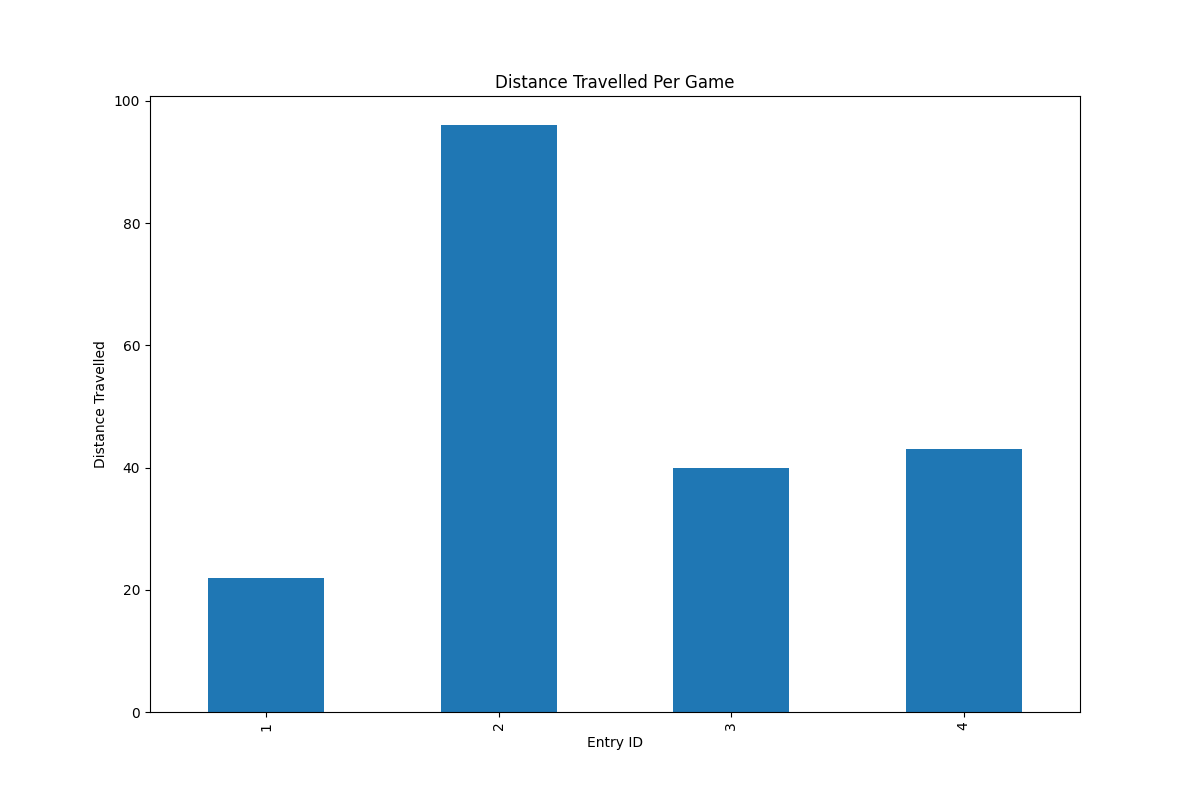
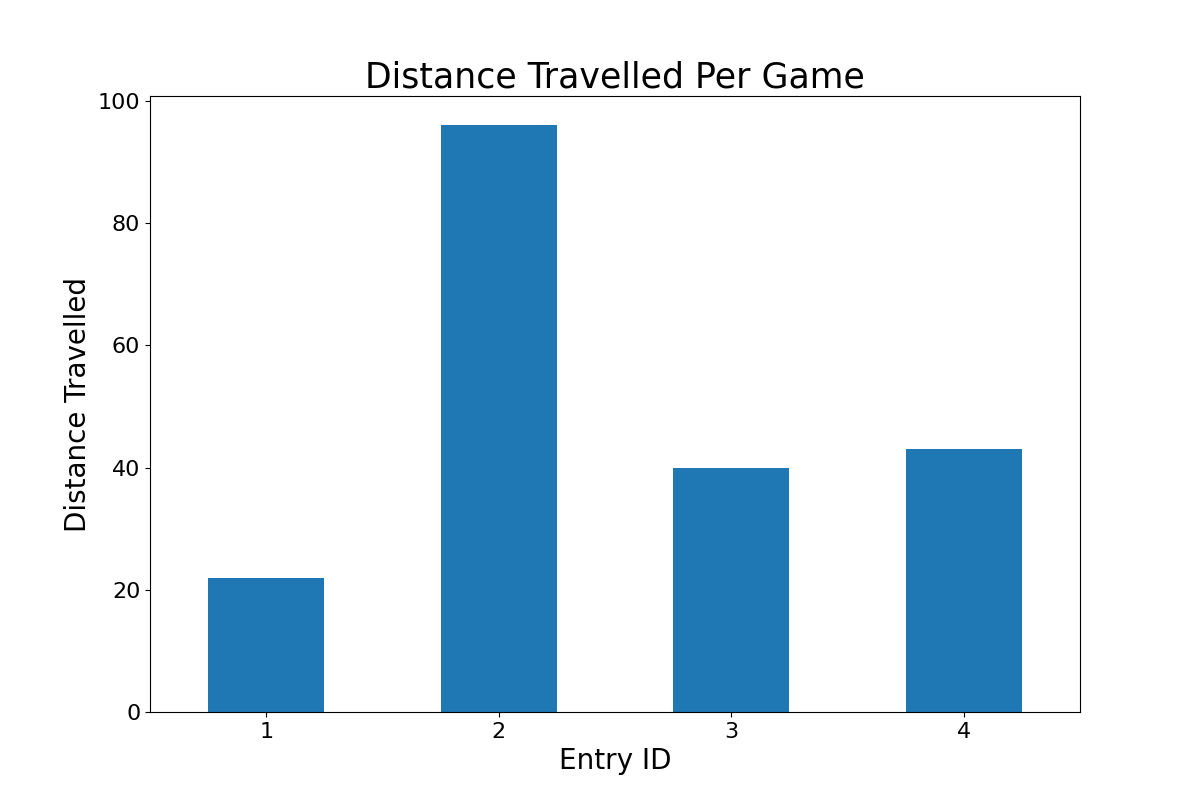
Completed Dashboard

diff --git a/CoolMotor.py b/CoolMotor.py
@@ -80,20 +80,22 @@ def dashboard():
     
     fig1 = plt.figure(figsize=(12, 8))
     ax = freq_series.plot(kind="bar")
-    ax.set_title("Distance Travelled Per Game")
-    ax.set_xlabel("Entry ID")
-    ax.set_ylabel("Distance Travelled")
+    ax.set_title("Distance Travelled Per Game", fontsize=25)
+    ax.set_xlabel("Entry ID", fontsize=20)
+    ax.set_ylabel("Distance Travelled", fontsize=20, rotation=90)
     ax.set_xticklabels(x1Array)
-    plt.xticks(rotation=90)
+    plt.xticks(fontsize=16, rotation=0)
+    plt.yticks(fontsize=16, rotation=0)
     fig1.savefig('static/img/chart1.png')
     
     fig2 = plt.figure(figsize=(12, 8))
     ax = freq_series2.plot(kind="bar")
-    ax.set_title("Time Played per day")
-    ax.set_xlabel("Date of Play")
-    ax.set_ylabel("Time Spent Playing")
+    ax.set_title("Time Played per day", fontsize=25)
+    ax.set_xlabel("Date of Play", fontsize=20)
+    ax.set_ylabel("Time Spent Playing", fontsize=20, rotation=90)
     ax.set_xticklabels(x2Array)
-    plt.xticks(rotation=90)
+    plt.xticks(fontsize=16, rotation=0)
+    plt.yticks(fontsize=16, rotation=0)
     fig2.savefig('static/img/chart2.png')
 
     # Data is a function which returns the SQL data to be displayed in the view model
